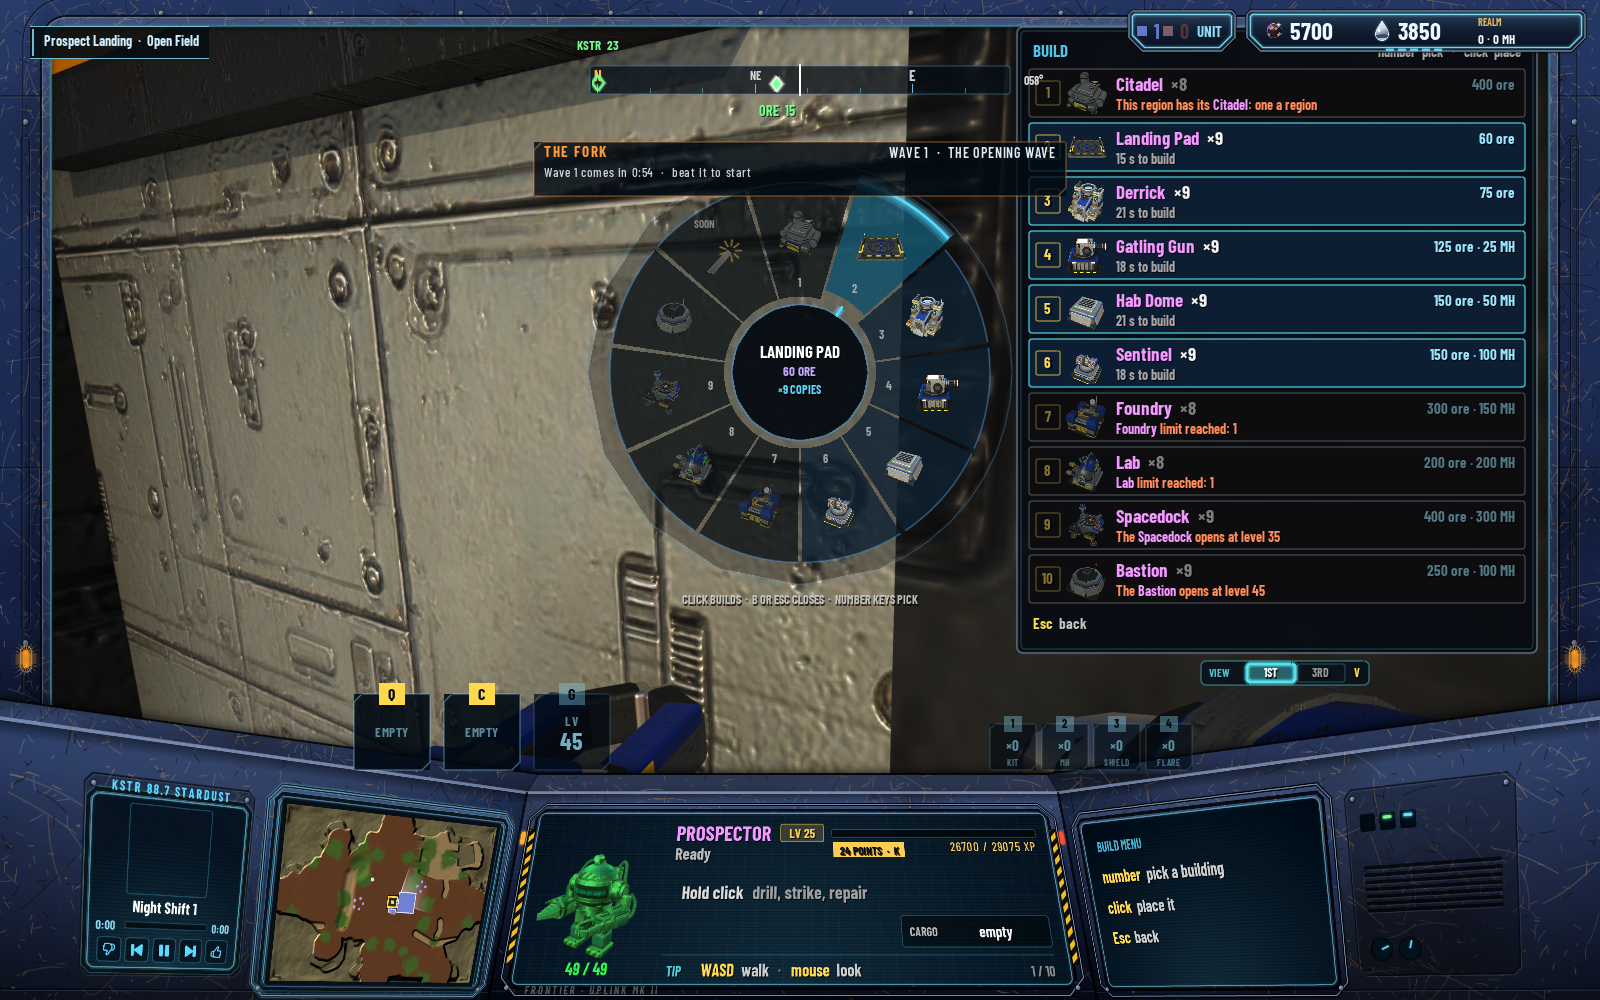
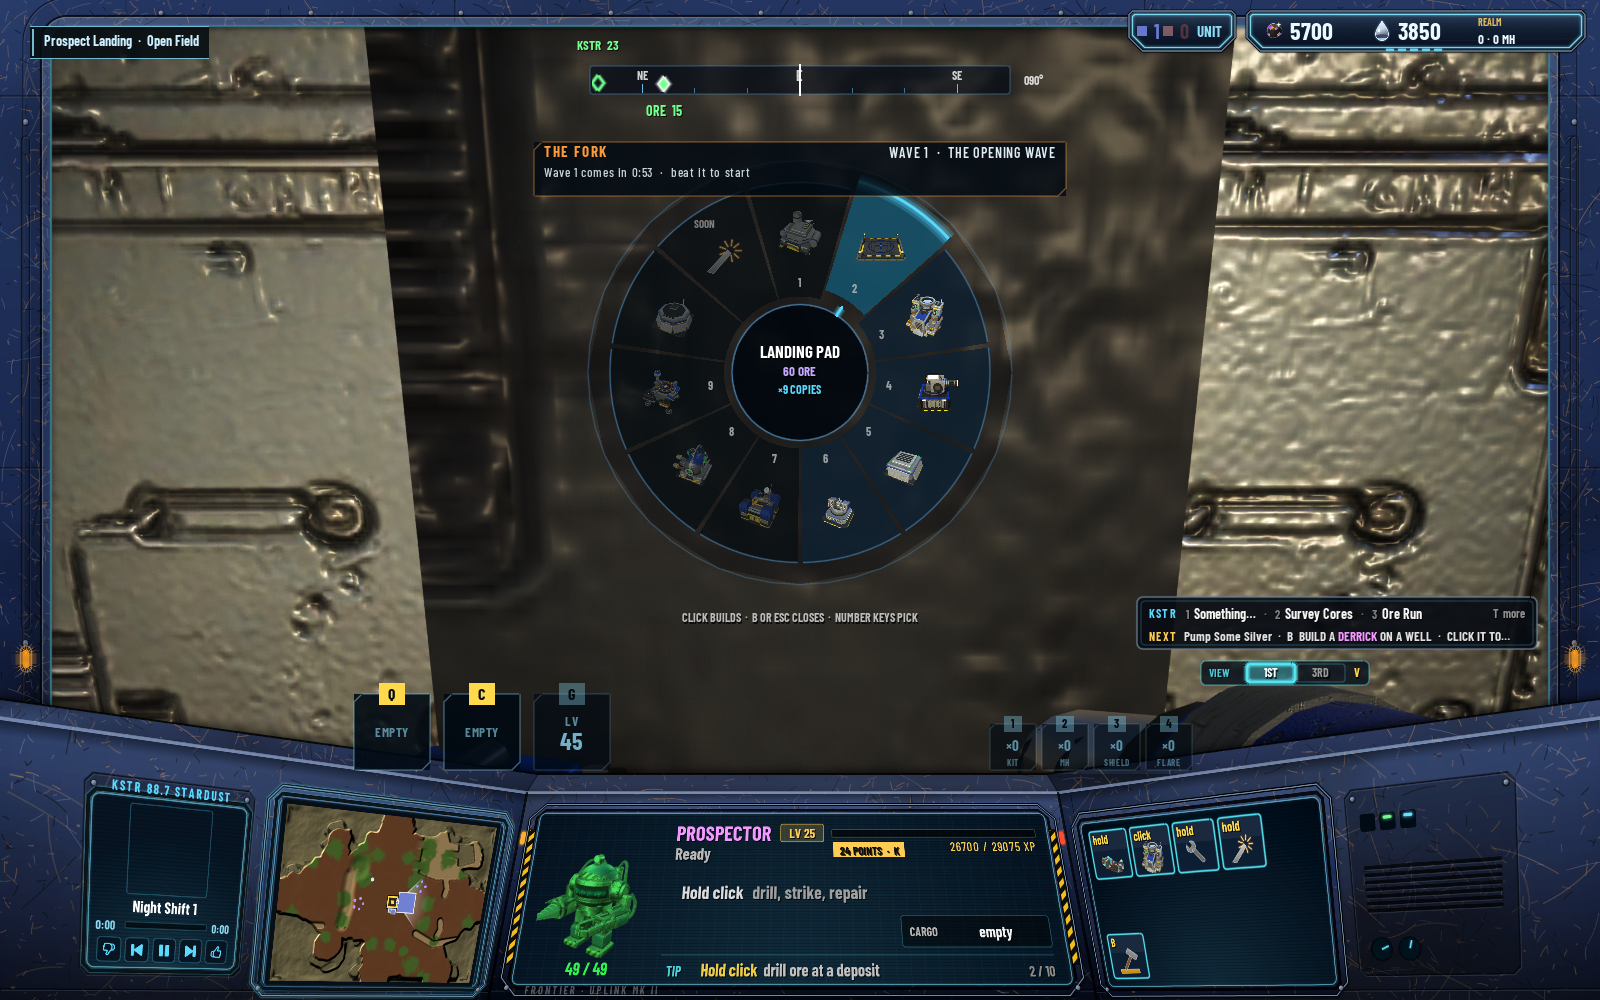
The build wheel replaces the build list in the MMORPG mode: no list panel on the console while it is open or a building is held out (the card keeps the Prospector's buttons); a locked pick's reason in full under the wheel. The Prospector's Strike line gives the cutter's damage and reach in cells (C2

diff --git a/unreal/Source/Autocraft/AcPilotText.cpp b/unreal/Source/Autocraft/AcPilotText.cpp
@@ -739,7 +739,9 @@ FAcCardInfo AcPilotText::Console(const ac::Simulation& Sim, const FAcPilotFrame&
 		}
 		return Info;
 	}
-	if (In.bBuildMenu || In.Placing)
+	// The MMORPG mode: the build wheel (C2) replaces the list: the card
+	// keeps the Prospector's own buttons.
+	if ((In.bBuildMenu || In.Placing) && !In.bMmo)
 	{
 		int32 I = 0;
 		for (const ac::StructureKind K : BuildKinds(In.bMmo))
@@ -805,6 +807,9 @@ FAcCardInfo AcPilotText::Console(const ac::Simulation& Sim, const FAcPilotFrame&
 		B.Detail = FString(Detail);
 		return B;
 	};
+	// C2: the cutter's reach in cells, edge to edge (its weapon line).
+	const FString Strike = FString::Printf(TEXT("Hold click at an enemy: %s damage, reach %s cells"),
+		*FormatG(Sim.weapon(U).damage), *FormatG(Sim.weapon(U).range));
 	Info.Buttons = {
 		Button(0, TEXT("hold"), TEXT("Drill ore"), TEXT("ore"), (T && T->is<ac::PilotTarget::Patch>()) || U.task == ETask::mining,
 			TEXT("Hold click at an ore deposit")),
@@ -812,8 +817,7 @@ FAcCardInfo AcPilotText::Console(const ac::Simulation& Sim, const FAcPilotFrame&
 			TEXT("Click at your Derrick")),
 		Button(2, TEXT("hold"), TEXT("Repair"), TEXT("act.repair"), (T && T->is<ac::PilotTarget::Repair>()) || U.task == ETask::repairing,
 			TEXT("Hold click at a damaged building (hold R too at a Derrick)")),
-		Button(3, TEXT("hold"), TEXT("Strike"), TEXT("act.strike"), T && T->is<ac::PilotTarget::Enemy>(),
-			TEXT("Hold click at an enemy: 5 damage")),
+		Button(3, TEXT("hold"), TEXT("Strike"), TEXT("act.strike"), T && T->is<ac::PilotTarget::Enemy>(), *Strike),
 		Button(10, TEXT("B"), TEXT("Build"), TEXT("act.build"), (T && T->is<ac::PilotTarget::Scaffold>()) || U.task == ETask::building,
 			TEXT("Open the buildings")),
 	};

diff --git a/unreal/Source/Autocraft/AcMmoPracticeFlowTest.cpp b/unreal/Source/Autocraft/AcMmoPracticeFlowTest.cpp
@@ -43,6 +43,8 @@ namespace
 	{
 		int32 Slice = INDEX_NONE;
 		bool bShot = false;
+		/// The command line before the dev rig was added (put back after).
+		FString CommandLineWas;
 		double ShotAt = -1;
 	};
 	FPractice Practice;
@@ -85,6 +87,8 @@ void UAcGameFlowSubsystem::TickMmoPracticeFlow(const FString& Step)
 	auto Finish = [&] {
 		if (Pilot && Pilot->OnKey && Build && (Build->MenuOpen() || Build->Placing())) Pilot->OnKey(TEXT("esc"));
 		StopMmo();
+		// The steps after this one go without the dev rig.
+		if (!Practice.CommandLineWas.IsEmpty()) FCommandLine::Set(*Practice.CommandLineWas);
 		NextStep();
 	};
 	auto Waited = [&](const FString& What, const double Seconds) {
@@ -108,7 +112,11 @@ void UAcGameFlowSubsystem::TickMmoPracticeFlow(const FString& Step)
 		if (Sim && Sim->IsMmo()) StopMmo();
 		Practice = FPractice();
 		// The dev rig: a finished Citadel, level 25, a full wallet.
-		if (!FParse::Param(FCommandLine::Get(), TEXT("AcMmoDevRig"))) FCommandLine::Append(TEXT(" -AcMmoDevRig"));
+		if (!FParse::Param(FCommandLine::Get(), TEXT("AcMmoDevRig")))
+		{
+			Practice.CommandLineWas = FCommandLine::Get();
+			FCommandLine::Append(TEXT(" -AcMmoDevRig"));
+		}
 		StartMmo(true);
 		Advance();
 		return;
@@ -170,6 +178,7 @@ void UAcGameFlowSubsystem::TickMmoPracticeFlow(const FString& Step)
 		}
 		if (Now - Practice.ShotAt < 1.0) return;
 		Check(true, TEXT("practice: the overlay shows the wheel lit on the pick"));
+		Check(!(Info->Console && Info->Console->bBuildList), TEXT("practice: no build list on the console beside the wheel"));
 		Advance();
 		return;
 	case 4:

diff --git a/unreal/Source/Autocraft/SAcPilotOverlay.cpp b/unreal/Source/Autocraft/SAcPilotOverlay.cpp
@@ -657,7 +657,13 @@ void SAcPilotOverlay::PaintWheel(FAcPilotPen& P, const FAcRect& Glass) const
 		const FLinearColor Tone = Wh.Pick >= 0 ? FAcHudStyle::Cyan() : White(0.6, 0.8);
 		P.Lines({C + D * (In - 8), C + D * (In - 8 + 10 * Lean + 2)}, Tone, 3, 3, true);
 	}
-	P.Label(TEXT("CLICK BUILDS  ·  B OR ESC CLOSES  ·  NUMBER KEYS PICK"), 12, White(0.8, 0.9), C - FVector2D(0, Out + 42),
+	// A locked pick's reason in full ("This region has its Citadel: one a region").
+	if (Wh.Pick >= 0 && Wh.Pick < N && Wh.Slices[Wh.Pick].State != FAcWheelSlice::EState::Build && !Wh.Slices[Wh.Pick].Why.IsEmpty())
+	{
+		P.Label(Wh.Slices[Wh.Pick].Why, 15, BlockedColor(), C - FVector2D(0, Out + 40), EAcHAlign::Center, EAcVAlign::Baseline, true,
+			false);
+	}
+	P.Label(TEXT("CLICK BUILDS  ·  B OR ESC CLOSES  ·  NUMBER KEYS PICK"), 12, White(0.8, 0.9), C - FVector2D(0, Out + 60),
 		EAcHAlign::Center, EAcVAlign::Baseline, true, false);
 }
 
